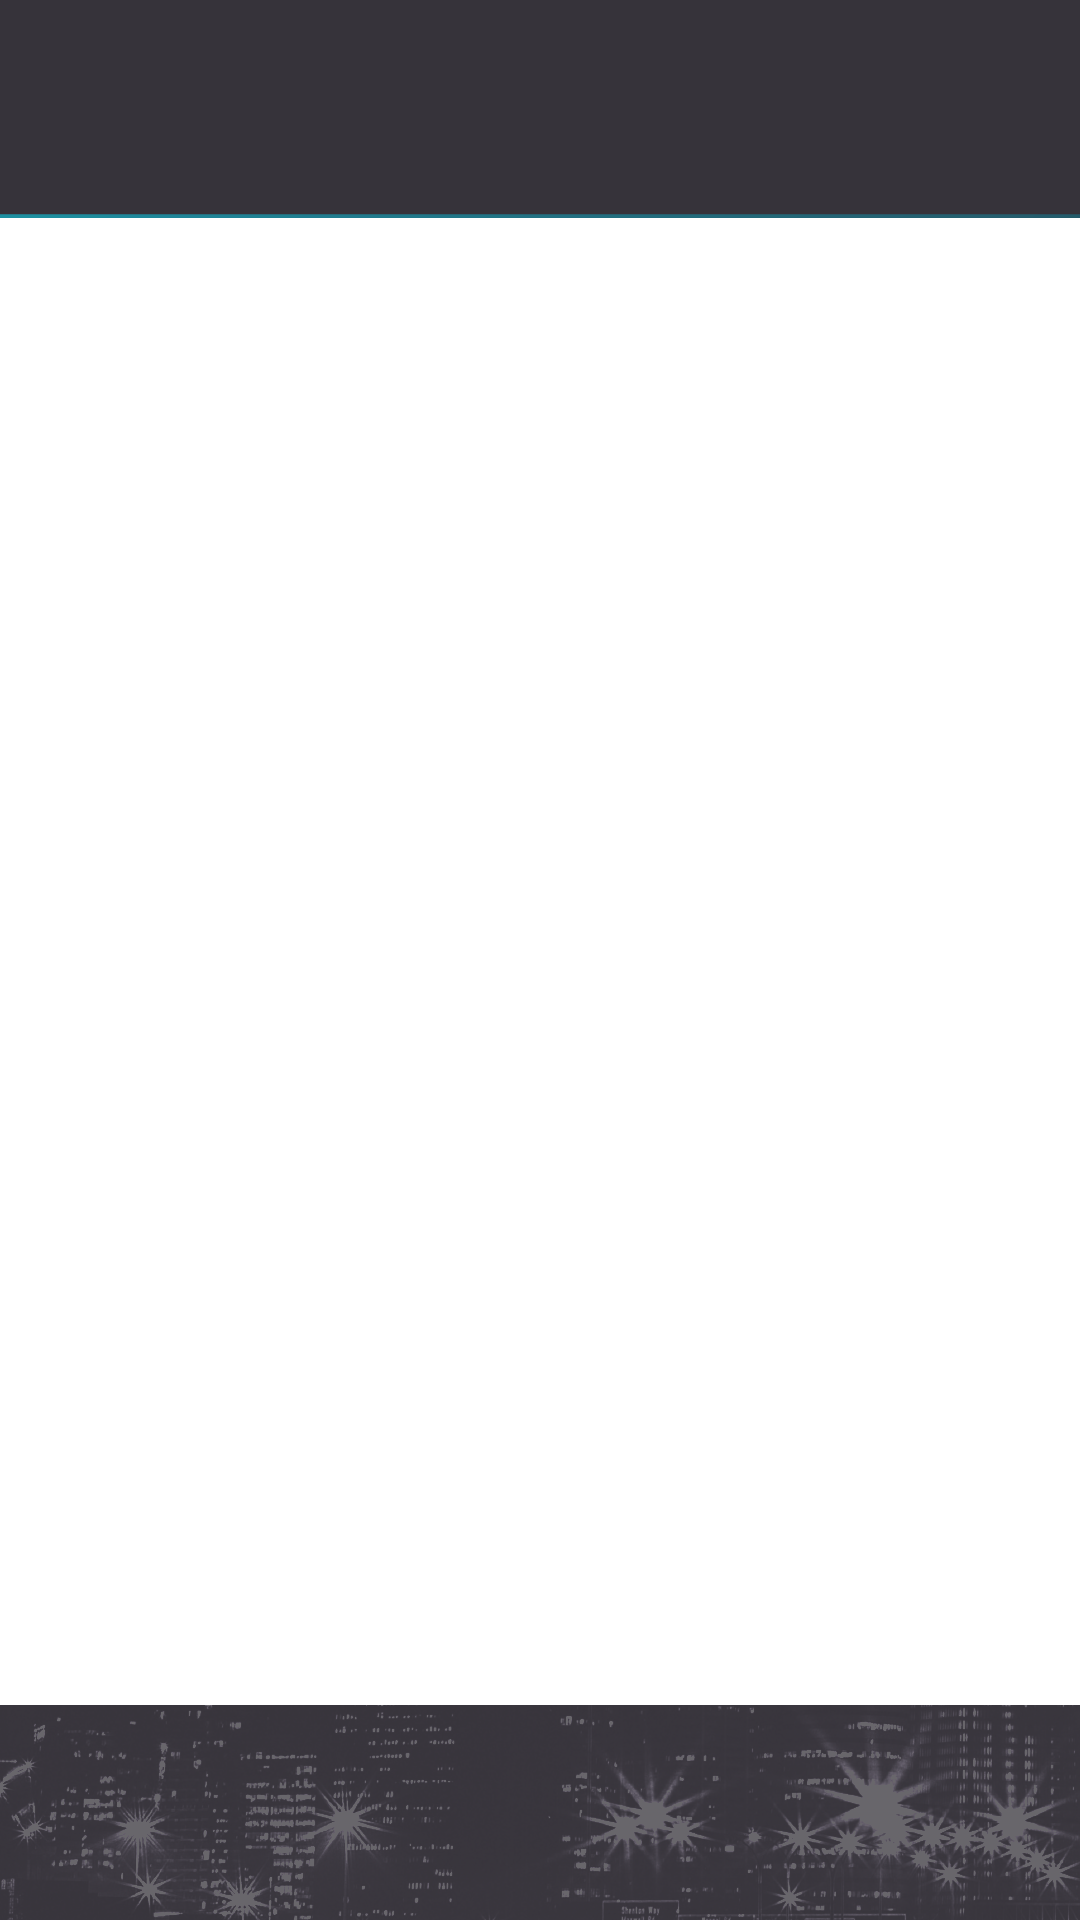
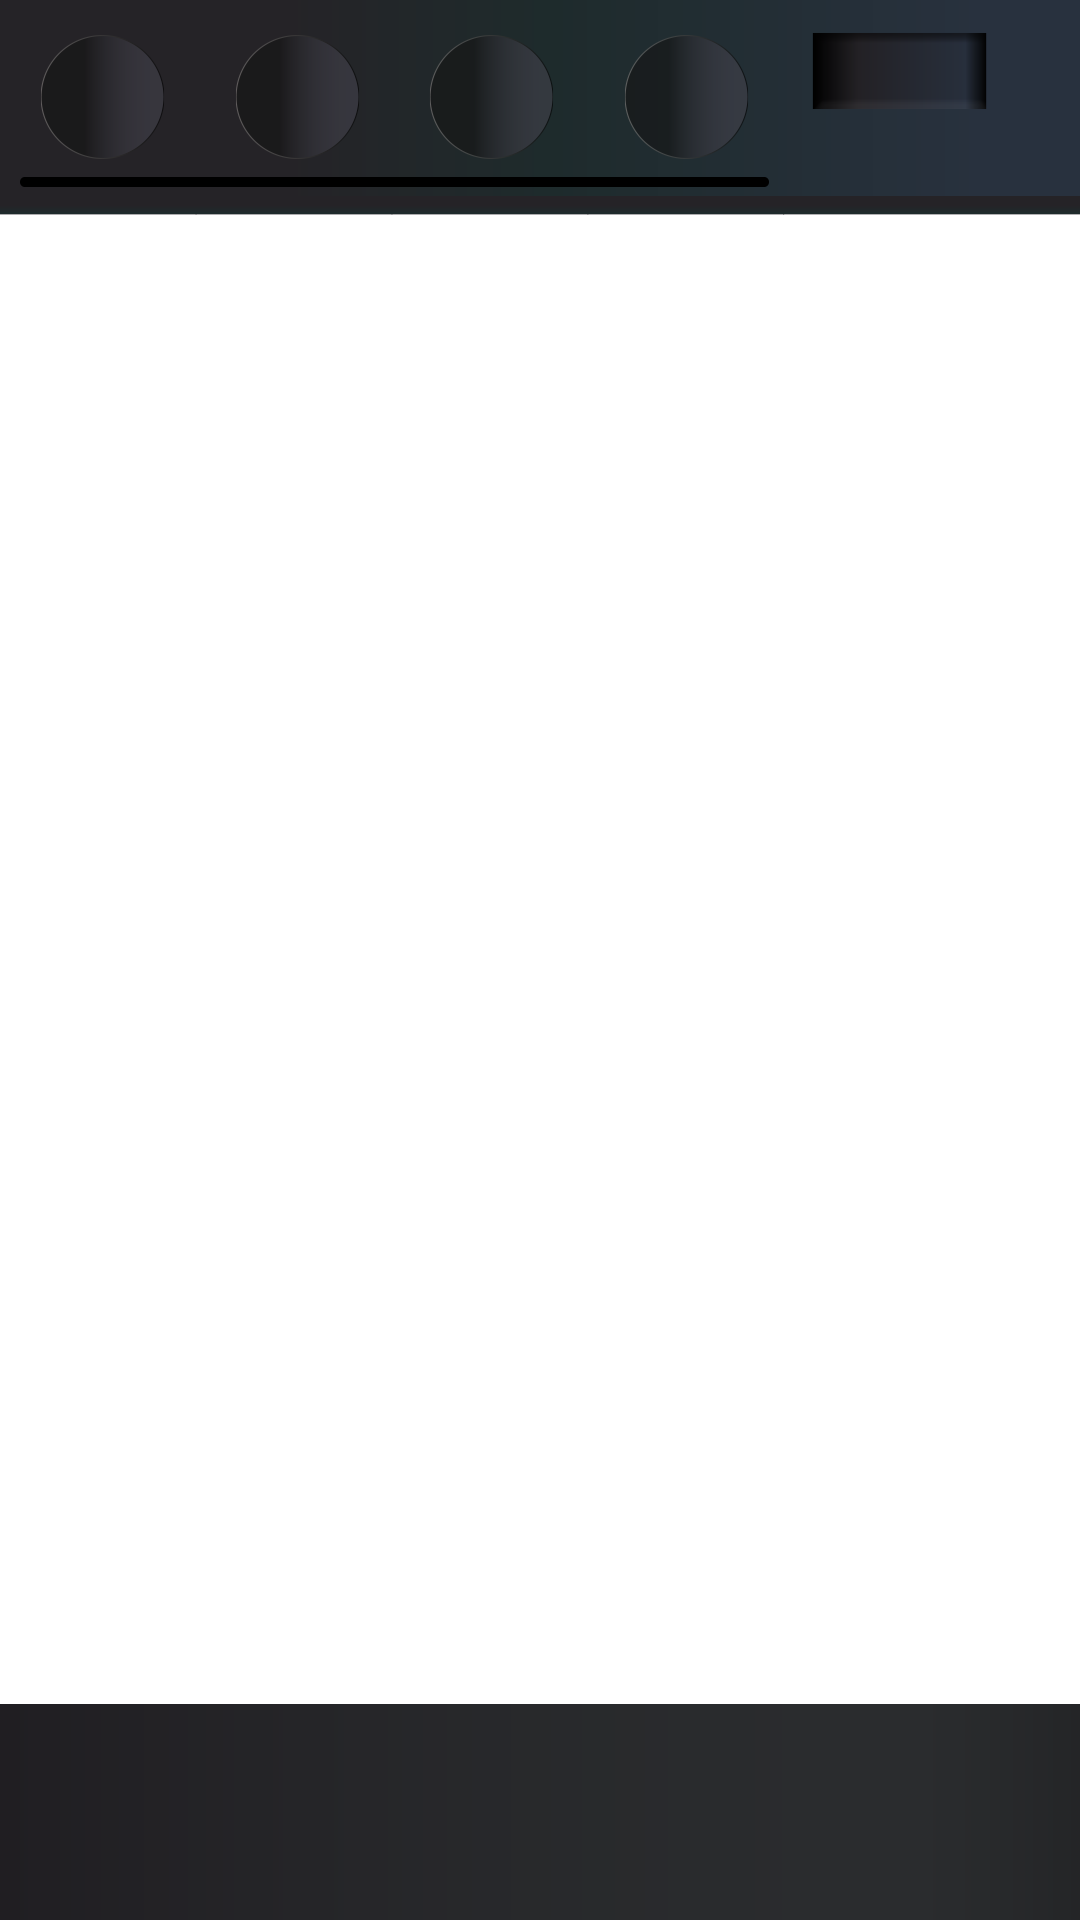
change new design

diff --git a/homescreen/qml/ShortcutIcon.qml b/homescreen/qml/ShortcutIcon.qml
@@ -67,6 +67,10 @@ MouseArea {
         }
         Image {
             id: sourceIcon
+            anchors.topMargin: 21
+            anchors.bottomMargin: 41
+            anchors.leftMargin: 30
+            anchors.rightMargin: 30
             anchors.fill: parent
             source: isBlank ? null : root.icon
         }
@@ -79,18 +83,18 @@ MouseArea {
         }
     }
 
-    Label {
-        id: name
-        y: 160
-        width: root.width - 10
-        font.pixelSize: 15
-        font.letterSpacing: 5
-        // wrapMode: Text.WordWrap
-        anchors.horizontalCenter: parent.horizontalCenter
-        horizontalAlignment: Text.AlignHCenter
-        color: "white"
-        text: qsTr((root.name === "launcher" ? "home" : root.name).toUpperCase())
-    }
+//    Label {
+//        id: name
+//        y: 160
+//        width: root.width - 10
+//        font.pixelSize: 15
+//        font.letterSpacing: 5
+//        // wrapMode: Text.WordWrap
+//        anchors.horizontalCenter: parent.horizontalCenter
+//        horizontalAlignment: Text.AlignHCenter
+//        color: "white"
+//        text: qsTr((root.name === "launcher" ? "home" : root.name).toUpperCase())
+//    }
 
     states: [
         State {

diff --git a/homescreen/qml/TopArea.qml b/homescreen/qml/TopArea.qml
@@ -22,7 +22,7 @@ import QtQuick.Controls 2.0
 Image {
     width: 1920
     height: 218
-    source: './images/TopSection_NoText_NoIcons-01.svg'
+    source: './images/TopSection_NoText_NoIcons-01.png'
     fillMode: Image.PreserveAspectCrop
 
     RowLayout {

diff --git a/homescreen/src/homescreenconnect.cpp b/homescreen/src/homescreenconnect.cpp
@@ -30,6 +30,7 @@ static const char API[] = "alexa-voiceagent";
 static const char CARLACLIENTAPI[] = "carlaclient";
 const string vshl_core_event = "{\"events\": []}";
 const string vshl_core_refreshevent = "{\"refresh_token\": \"ws\"}";
+static const int RETRYCOUNT = 60;
 
 const std::vector<std::string> HomescreenConnect::event_lists {
     std::string("alexa-voiceagent/voice_cbl_codepair_received_event"),
@@ -64,6 +65,7 @@ HomescreenConnect::HomescreenConnect(QObject *parent) :
     QObject(parent)
 {
     timer = new QTimer(this);
+    retrytimer = new QTimer(this);
 }
 
 HomescreenConnect::~HomescreenConnect()
@@ -84,6 +86,8 @@ int HomescreenConnect::init(int port, const string& token)
 
     connect(timer,SIGNAL(timeout()),this,SLOT(subscribe()));
     connect(this,SIGNAL(stopTimer()),this,SLOT(stopGetCode()));
+    connect(this,SIGNAL(retryStart()),this,SLOT(startTimer()));
+    connect(retrytimer,SIGNAL(timeout()),this,SLOT(resendCode()));
     if(port > 0 && token.size() > 0)
     {
         mport = port;
@@ -229,8 +233,10 @@ void HomescreenConnect::on_event(void *closure, const char *event, struct afb_ws
                 QString codestr = codestr2.left(6);
                 emit showInformation(QString(QLatin1String(warnginfo)));
                 std::string str = codestr.toStdString();
-                if(send_code(str.c_str())){
-                     HMI_ERROR("HomescreenConnect", "send_code error.");
+                amazonCode = str.c_str();
+                if(send_code(amazonCode)){
+                    emit retryStart();
+                    HMI_ERROR("HomescreenConnect", "send_code error.");
                 }
                 emit stopTimer();
             }
@@ -246,10 +252,32 @@ int HomescreenConnect::send_code(const char *str)
 
     int ret = afb_wsj1_call_j(sp_websock, CARLACLIENTAPI, "set_amazon_code", obj, _on_reply_static, this);
     if (ret < 0) {
-          HMI_ERROR("HomescreenConnect","Failed to call set_amazon_code verb");
+        retrycount++;
+        HMI_ERROR("HomescreenConnect","Failed to call set_amazon_code verb");
+    }else{
+        retrycount = 0;
     }
 
     return ret;
+}
+
+void HomescreenConnect::resendCode(void)
+{
+    HMI_DEBUG("HomescreenConnect"," resendCode,%s",amazonCode);
+    if(send_code(amazonCode)){
+        if(retrycount >= RETRYCOUNT){
+            retrycount = 0;
+            retrytimer->stop();
+            HMI_ERROR("HomescreenConnect", "resend_code 60s timeout.");
+        }
+    }else{
+        retrytimer->stop();
+    }
+}
+
+void HomescreenConnect::startTimer(void)
+{
+    retrytimer->start(1000);
 }
 
 void HomescreenConnect::stopGetCode(void)

diff --git a/homescreen/src/homescreenconnect.h b/homescreen/src/homescreenconnect.h
@@ -51,9 +51,12 @@ signals:
     void statusChanged(bool status);
     void showInformation(QString info);
     void stopTimer(void);
+    void retryStart(void);
 private slots:
     void subscribe(void);
     void stopGetCode(void);
+    void resendCode(void);
+    void startTimer(void);
 
 private:
     int initialize_websocket(void);
@@ -65,7 +68,10 @@ private:
     std::string muri;
     int mport = 2000;
     std::string mtoken = "hs";
+    const char *amazonCode;
     QTimer *timer;
+    QTimer *retrytimer;
+    int retrycount;
 };
 
 #endif // HOMESCREENCONNECT_H
